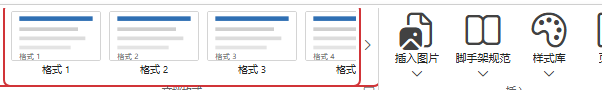
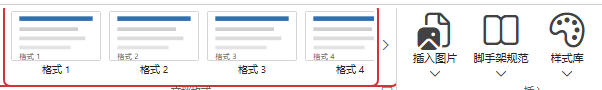
fix(ribbon): 垂直分割按钮改为 Office 风格布局
- 垂直 splitButton 上半部分只保留图标，下半部分把标题与下拉箭头合并为一个按钮，两个点击区域高度约相等。
- 移除分割按钮 64/68px 的最小宽度限制，宽度按图标与标题的实际内容自适应，保存等短标题按钮不再过宽。
- 保留主命令与触发区独立点击、独立悬停背景以及组合边框/分格线同步高亮的行为。
- 补充布局、尺寸与点击行为单元测试，更新功能区部件图鉴截图与组件文档说明。

diff --git a/src/vscode-ribbon/vscode-ribbon.ts b/src/vscode-ribbon/vscode-ribbon.ts
@@ -1535,6 +1535,7 @@ export class VscodeRibbon extends VscElement {
     const level = this._itemLevel(item, original);
     const layout = resolveRibbonItemLayout(level.size, level.style);
     const iconOnly = layout === 'icon-only';
+    const verticalSplit = layout === 'vertical';
     const hasMenu = item.menu !== null;
     const isSplit = item.type === 'splitButton' && hasMenu;
     const isDropdown = hasMenu && !isSplit;
@@ -1580,7 +1581,14 @@ export class VscodeRibbon extends VscElement {
             )}
         >
           ${this._renderIcon(item.icon)}
-          ${this._renderLabel(item, {iconOnly, lines: level.size === 'third' ? 1 : 2})}
+          ${
+            verticalSplit
+              ? nothing
+              : this._renderLabel(item, {
+                  iconOnly,
+                  lines: level.size === 'third' ? 1 : 2,
+                })
+          }
         </button>
         <button
           type="button"
@@ -1599,10 +1607,14 @@ export class VscodeRibbon extends VscElement {
               event.currentTarget as HTMLElement
             )}
         >
-          <span
-            class="codicon codicon-chevron-down ribbon-chevron"
-            aria-hidden="true"
-          ></span>
+          ${
+            verticalSplit
+              ? this._renderLabel(item, {lines: 1, chevron: true})
+              : html`<span
+                  class="codicon codicon-chevron-down ribbon-chevron"
+                  aria-hidden="true"
+                ></span>`
+          }
         </button>
       </div>`;
     }

diff --git a/src/vscode-ribbon/vscode-ribbon.styles.ts b/src/vscode-ribbon/vscode-ribbon.styles.ts
@@ -493,7 +493,7 @@ const styles: CSSResultGroup = [
       display: flex;
       flex-direction: column;
       justify-content: flex-start;
-      min-width: 68px;
+      min-width: 0;
       max-width: var(--vsc-ribbon-items-height);
       border-radius: 2px;
       overflow: hidden;
@@ -571,6 +571,45 @@ const styles: CSSResultGroup = [
       padding: 0 2px;
       border-top: 0;
       border-left: 1px solid transparent;
+    }
+
+    /* Office 风格垂直分割按钮：上半部分只放图标，下半部分是“标题 + 下拉箭头”。 */
+    .ribbon-split.ribbon-item-vertical {
+      width: max-content;
+      min-width: 0;
+    }
+
+    .ribbon-split.ribbon-item-vertical .ribbon-item-primary {
+      flex: 1 1 0;
+      flex-direction: row;
+      align-items: center;
+      justify-content: center;
+      min-height: 0;
+      padding: 2px 2px 0;
+    }
+
+    .ribbon-split.ribbon-item-vertical .ribbon-split-trigger {
+      flex: 1 1 0;
+      min-height: 0;
+      padding: 0 3px;
+    }
+
+    .ribbon-split.ribbon-item-vertical
+      .ribbon-split-trigger
+      .ribbon-label.has-chevron {
+      flex-direction: row;
+      align-items: center;
+      justify-content: center;
+      width: auto;
+      gap: 2px;
+    }
+
+    .ribbon-split.ribbon-item-vertical
+      .ribbon-split-trigger
+      .ribbon-label-text {
+      -webkit-line-clamp: 1;
+      overflow-wrap: normal;
+      white-space: nowrap;
     }
 
     /* 悬停任一区域时，组合按钮外边框与分格线一起高亮。 */

diff --git a/src/vscode-ribbon/vscode-ribbon.test.ts b/src/vscode-ribbon/vscode-ribbon.test.ts
@@ -840,6 +840,19 @@ describe('vscode-ribbon', () => {
     expect(transparent(getComputedStyle(trigger).backgroundColor)).to.equal(
       true
     );
+    // Office 风格：上半部分只显示图标，下半部分合并标题与下拉箭头。
+    expect(primary.querySelector('.ribbon-icon')).to.not.equal(null);
+    expect(primary.querySelector('.ribbon-label')).to.equal(null);
+    expect(trigger.querySelector('.ribbon-label-text')?.textContent).to.equal(
+      '保存'
+    );
+    expect(trigger.querySelector('.ribbon-chevron')).to.not.equal(null);
+    const primaryRect = primary.getBoundingClientRect();
+    const triggerRect = trigger.getBoundingClientRect();
+    const splitRect = split.getBoundingClientRect();
+    expect(Math.abs(primaryRect.height - triggerRect.height)).to.be.at.most(2);
+    expect(splitRect.width).to.be.lessThan(64);
+    expect(splitRect.width).to.be.greaterThan(30);
     primary.click();
     await el.updateComplete;
     expect(command).to.equal('save');

diff --git a/docs/ribbon-parts.md b/docs/ribbon-parts.md
@@ -226,7 +226,7 @@ items: [
 
 <img src="/ribbon-parts/item-primary.png" alt="分割按钮主命令部件截图">
 
-分割按钮的上方主区域，直接点击执行主命令；悬停时只有该区域背景激活，同时组合按钮外边框与分格线一起高亮。
+垂直分割按钮的上方主区域，只显示图标，点击执行主命令；上下两半高度约相等，悬停时只有该区域背景激活，同时组合按钮外边框与分格线一起高亮。
 
 ```js
 {
@@ -242,7 +242,7 @@ items: [
 
 <img src="/ribbon-parts/item-trigger.png" alt="分割按钮触发区部件截图">
 
-分割按钮的下方触发区，点击展开菜单而不执行主命令；悬停时只有该区域背景激活，并同步高亮组合边框与分格线。
+垂直分割按钮的下方触发区，把标题与下拉箭头合并为一个按钮，点击展开菜单而不执行主命令；悬停时只有该区域背景激活，并同步高亮组合边框与分格线。
 
 ```js
 {
